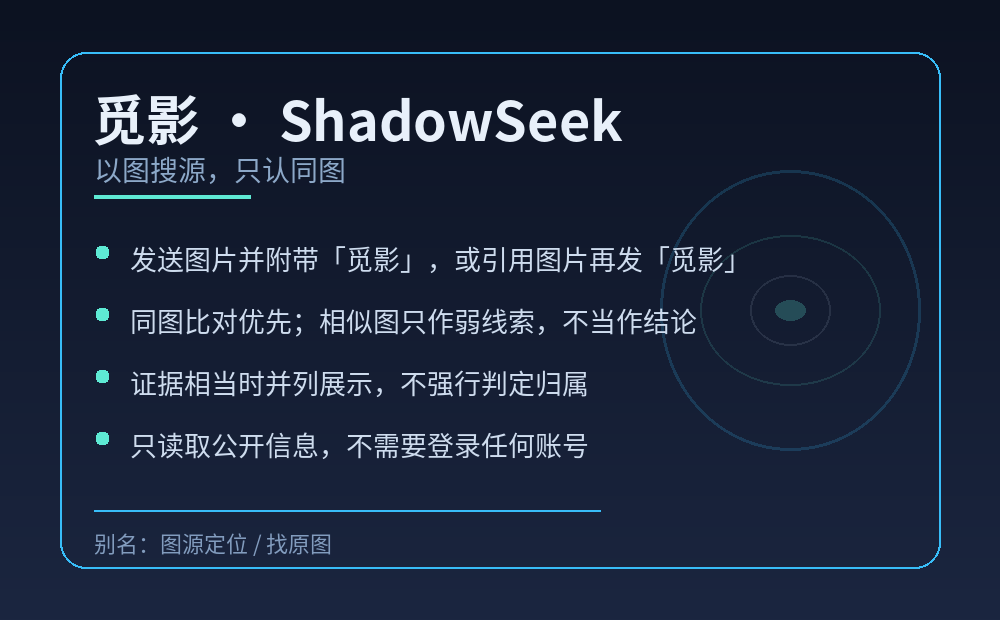
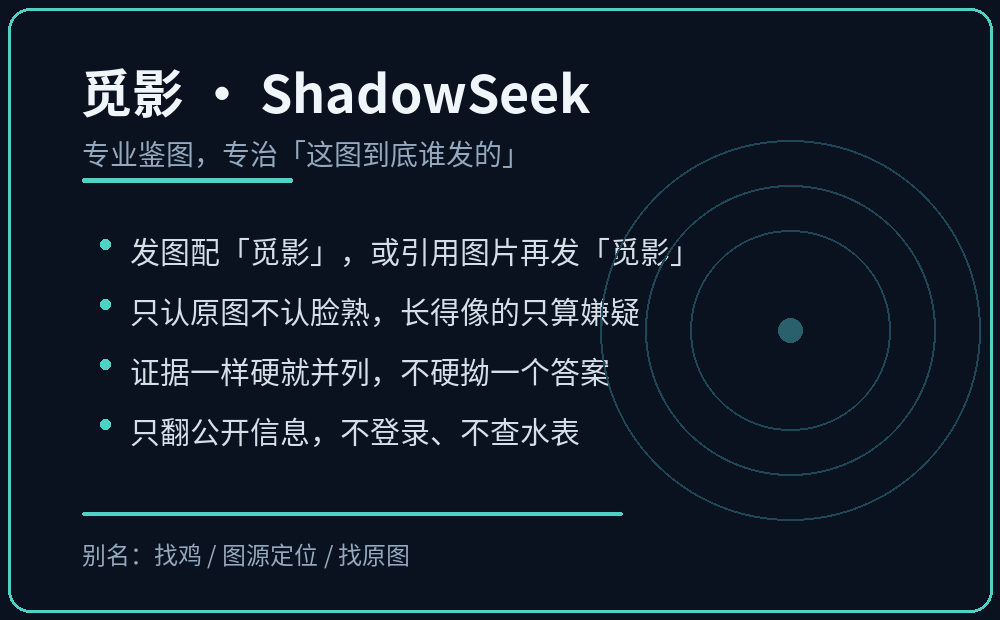
feat: 增加「找鸡」别名并改用鉴图抓人风格的文案与图片
结果改为本尊/嫌疑人、首发现场、同图实锤等说法，帮助图与结论图同步重绘。

diff --git a/lens/formatting.py b/lens/formatting.py
@@ -15,27 +15,27 @@ from .models import (
     Selection,
 )
 
-HELP_TEXT = """【觅影】以图搜源
-发送图片并附带「觅影」，或引用一张图片发送「觅影」，即可寻找最可能的 X 原帖或账号。
-· 同图比对优先，相似图只作弱线索
-· 多个账号证据相当时并列展示，不强行判定
-· 只读取公开信息，不需要登录
-别名：图源定位 / 找原图
+HELP_TEXT = """【觅影】专业鉴图，专治「这图到底谁发的」
+发图配一句「觅影」，或引用图片再发「觅影」，我就去全网翻线索。
+· 只认原图不认脸熟，长得像的一律先当嫌疑人
+· 几位嫌疑人证据一样硬，就一起摆上桌，不硬拗答案
+· 全程只翻公开信息，不登录、不查水表
+别名：找鸡 / 图源定位 / 找原图
 配置：网页控制台 → ShadowSeek"""
 
 
 def _judgement(candidate: Candidate) -> str:
     if candidate.relation:
-        return "引用关系确认"
+        return "引用链锁定"
     if candidate.verified:
-        return "已确认同图"
+        return "同图实锤"
     if candidate.level >= LEVEL_SIGNED:
-        return "来源署名"
+        return "署名对得上"
     if candidate.level >= LEVEL_LINK:
-        return "链接指向"
+        return "摸到主页了"
     if candidate.level >= LEVEL_MENTION:
-        return "文字提及"
-    return "弱线索"
+        return "有人提过名"
+    return "只有皮毛"
 
 
 def _confidence(candidate: Candidate) -> str:
@@ -63,35 +63,36 @@ def _line(candidate: Candidate, prefix: str = "账号") -> str:
 def format_result(selection: Selection, report: Report) -> str:
     primary = selection.primary
     if primary is None:
-        lines = ["【觅影】未找到可定位的来源"]
+        lines = ["【觅影】翻遍犄角旮旯，没逮到本尊。"]
         if selection.found_pages_without_x:
-            lines.append("已经找到同图页面，但没有从中读到可核对的 X 账号或帖子。")
+            lines.append("图是找着了，可页面里没留下 X 账号或帖子，线索断在这儿。")
         else:
-            lines.append("识图引擎没有返回可用的 X 来源。")
+            lines.append("识图引擎集体哑火，一张能用的 X 来源都没吐出来。")
         lines.extend(_diagnostics(report))
         return "\n".join(lines)
 
+    label = "本尊" if (primary.verified or primary.relation) else "嫌疑人"
     lines = [
         f"【觅影】判定：{_judgement(primary)}（可信度：{_confidence(primary)}）",
-        _line(primary),
+        _line(primary, label),
     ]
     if primary.url:
-        lines.append(f"原帖：{primary.url}")
-    reason = primary.chosen_reason or "未提供判定依据"
-    lines.append(f"依据：{reason}")
+        lines.append(f"首发现场：{primary.url}")
+    reason = primary.chosen_reason or "暂时没找到硬线索"
+    lines.append(f"线索：{reason}")
 
     if selection.ambiguous:
-        lines.append("说明：多个账号证据相当，暂不判定归属。")
+        lines.append("说明：几位嫌疑人证据一样硬，先不急着定罪。")
     for alternate in selection.alternates:
-        lines.append(f"并列候选：{_account(alternate) or '未知'}")
+        lines.append(f"同期嫌疑人：{_account(alternate) or '未知'}")
         if alternate.url:
-            lines.append(f"　　　　　{alternate.url}")
+            lines.append(f"　　　　　　　{alternate.url}")
 
     if report.cache_hit:
-        lines.append("（本次结果来自缓存）")
+        lines.append("（熟人局，直接从缓存里请出来的）")
     if report.errors:
         errors = [f"{name}：{reason}" for name, reason in list(report.errors.items())[:4]]
-        lines.append("异常：" + "；".join(errors))
+        lines.append("小状况：" + "；".join(errors))
     return "\n".join(lines)
 
 
@@ -100,7 +101,7 @@ def _diagnostics(report: Report) -> list[str]:
     for engine, count in report.engine_counts.items():
         parts.append(f"{engine} {count}")
     if parts:
-        parts_line = "检索： " + " · ".join(parts)
+        parts_line = "引擎战绩： " + " · ".join(parts)
     else:
         parts_line = ""
     errors = [
@@ -111,7 +112,7 @@ def _diagnostics(report: Report) -> list[str]:
     if parts_line:
         lines.append(parts_line)
     if errors:
-        lines.append("异常：" + "；".join(errors))
+        lines.append("小状况：" + "；".join(errors))
     return lines
 
 

diff --git a/lens/command.py b/lens/command.py
@@ -161,7 +161,7 @@ async def _collect_sources(ev: Event, settings: Settings) -> list[str]:
     return list(dict.fromkeys(sources))
 
 
-@sv_shadowseek.on_command(("觅影", "图源定位", "找原图"), block=True)
+@sv_shadowseek.on_command(("找鸡", "觅影", "图源定位", "找原图"), block=True)
 async def shadowseek_command(bot: Bot, ev: Event) -> None:
     settings = read_settings()
     if not settings.allowed_in(ev.group_id or None):
@@ -171,8 +171,8 @@ async def shadowseek_command(bot: Bot, ev: Event) -> None:
     if not sources:
         await bot.send(
             format_error(
-                "请发送图片并附带「觅影」，或引用一张图片再发「觅影」。\n"
-                f"发送「{_safe_prefix()}觅影帮助」查看用法。"
+                "图呢？发张图再配一句「觅影」，或者引用图片再发「觅影」。\n"
+                f"发送「{_safe_prefix()}觅影帮助」看看怎么用。"
             )
         )
         return
@@ -180,13 +180,13 @@ async def shadowseek_command(bot: Bot, ev: Event) -> None:
     key = f"{ev.group_id or 'direct'}:{ev.user_id}"
     wait = await _cooldown_wait(key, settings.cooldown_seconds)
     if wait:
-        await bot.send(format_error(f"操作太快，请 {wait} 秒后再试。"))
+        await bot.send(format_error(f"别急，让子弹飞 {wait} 秒。"))
         return
 
     semaphore = await _acquire_slot(settings.max_concurrency)
     try:
         if settings.send_progress:
-            await bot.send("【觅影】正在比对图片与公开来源，请稍候…")
+            await bot.send("【觅影】正在全网翻箱倒柜，顺着图找本尊，稍等…")
         raw = await load_source(
             sources[0], settings.proxy or None, timeout=min(settings.search_timeout, 12)
         )
@@ -203,7 +203,7 @@ async def shadowseek_command(bot: Bot, ev: Event) -> None:
         await bot.send(format_error(str(exc)))
     except Exception as exc:
         logger.exception(f"[ShadowSeek] 觅影失败: {exc}")
-        await bot.send(format_error("检索过程出错，请稍后再试。"))
+        await bot.send(format_error("半路翻车了，稍后再来一趟。"))
     finally:
         semaphore.release()
 
@@ -211,7 +211,7 @@ async def shadowseek_command(bot: Bot, ev: Event) -> None:
 @sv_help.on_fullmatch(("觅影帮助", "图源帮助", "ShadowSeek帮助"), block=True)
 async def shadowseek_help(bot: Bot, ev: Event) -> None:
     prefix = _safe_prefix()
-    text = HELP_TEXT if not prefix else HELP_TEXT.replace("「觅影」", f"「{prefix}觅影」", 1)
+    text = HELP_TEXT if not prefix else HELP_TEXT.replace("「觅影」", f"「{prefix}觅影」")
     await bot.send(text)
     if (ASSETS / "help.png").is_file():
         await bot.send(MessageSegment.image(ASSETS / "help.png"))

diff --git a/tests/test_formatting.py b/tests/test_formatting.py
@@ -15,11 +15,11 @@ def test_verified_result_layout() -> None:
     )
     report = Report(candidates=[candidate], engine_counts={"baidu": 1})
     text = format_result(Selection(primary=candidate), report)
-    assert "已确认同图" in text
+    assert "同图实锤" in text
     assert "可信度：高" in text
-    assert "账号：@alice · Alice" in text
-    assert "原帖：https://x.com/alice/status/1" in text
-    assert "依据：同图匹配" in text
+    assert "本尊：@alice · Alice" in text
+    assert "首发现场：https://x.com/alice/status/1" in text
+    assert "线索：同图匹配" in text
 
 
 def test_ambiguous_result_lists_alternate() -> None:
@@ -29,8 +29,8 @@ def test_ambiguous_result_lists_alternate() -> None:
         Selection(primary=primary, alternates=[alternate], ambiguous=True),
         Report(candidates=[primary, alternate]),
     )
-    assert "暂不判定归属" in text
-    assert "并列候选：@b" in text
+    assert "先不急着定罪" in text
+    assert "同期嫌疑人：@b" in text
 
 
 def test_no_primary_mentions_pages_without_x() -> None:
@@ -38,8 +38,8 @@ def test_no_primary_mentions_pages_without_x() -> None:
         Selection(found_pages_without_x=True),
         Report(exact_pages=2),
     )
-    assert "未找到可定位的来源" in text
-    assert "同图页面" in text
+    assert "没逮到本尊" in text
+    assert "图是找着了" in text
 
 
 def test_diagnostics_show_errors() -> None:
@@ -47,5 +47,5 @@ def test_diagnostics_show_errors() -> None:
         Selection(found_pages_without_x=False),
         Report(errors={"baidu": "搜索服务要求验证码"}, engine_counts={"baidu": 0}),
     )
-    assert "异常：" in text
+    assert "小状况：" in text
     assert "验证码" in text

diff --git a/CHANGELOG.md b/CHANGELOG.md
@@ -1,5 +1,11 @@
 # Changelog
 
+## 0.1.1
+
+- 新增 `找鸡` 命令别名，与 `觅影`、`图源定位`、`找原图` 等价。
+- 全部提示与结果文案改为“鉴图抓人”的诙谐风格：本尊 / 嫌疑人 / 首发现场 / 同图实锤。
+- 帮助图与结论图重绘，文案同步更新。
+
 ## 0.1.0
 
 - 首个 GsCore 版本，独立品牌「ShadowSeek / 觅影」，与上游 AstrBot 插件无 fork 关系。
